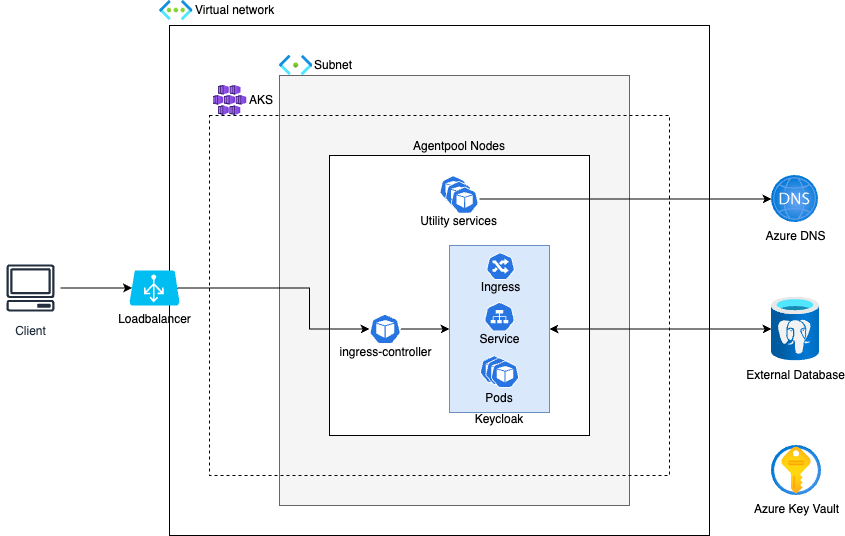
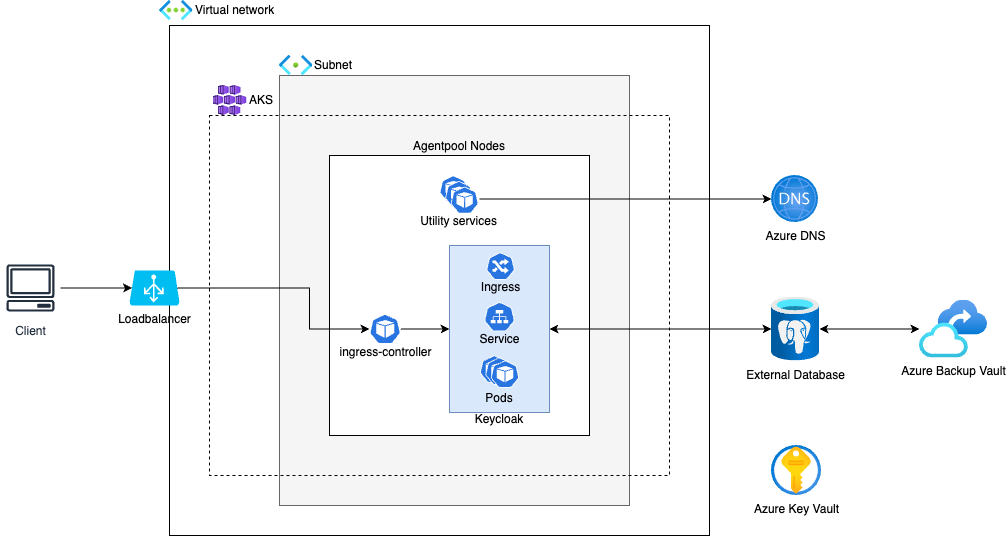
update docs

diff --git a/README.md b/README.md
@@ -6,7 +6,8 @@
 * [Deployment](#deployment)
   * [Infrastructure provisioning](#infrastructure-provisioning)
   * [Kubernetes initialization](#kubernetes-initialization)
-  * [Keycloak installation](#keycloak-installation)
+    * [Utility services](#utility-services)
+    * [Keycloak installation](#keycloak-installation)
   * [Service integration](#service-integration)
 * [Operations](#operations)
   * [Maintenance](#maintenance)
@@ -39,12 +40,12 @@ Access to Keycloak is facilitated via an nginx ingress controller (running in AK
 
 Azure Database for PostgreSQL Flexible Server is used as external database for Keycloak and access is facilitated with username/password for simplicity.
 
+Azure Backup Vault is used for periodic backups of the database.
+
 Azure DNS is used to resolve hostnames.
 
 Azure Key Vault is used to store the DB admin password.
 
-TODO: backup vault
-TODO: storace accounts
 
 ### Further architecture improvements
 
@@ -69,30 +70,58 @@ TODO: storace accounts
 
 ## Deployment
 ### Infrastructure provisioning
-The infrastructure components are provisioned via Terraform with its state saved in Azure Blob Storage. To provision the initial infrastructure needed for the terraform backend one can run `sh ./infra/script/create-tf-backend.sh` from the root of the git repository. It is required to have Azure CLI (https://learn.microsoft.com/en-us/cli/azure/install-azure-cli) installed and to be logged in (`az login`).
+The infrastructure components are provisioned via Terraform with its state saved in Azure Blob Storage. To provision the initial infrastructure needed for the terraform backend one can run `sh create-tf-backend.sh` from the root of the git repository. It is required to have Azure CLI (https://learn.microsoft.com/en-us/cli/azure/install-azure-cli) installed and to be logged in (`az login`).
 
-Create a file called postgresql_password in `/infra/files/` and add a password. This will be written to Azure Key vault and used for the database deployment.
+Create a file called `postgresql_password` in `/infra/files/` and add a password. This will be written to Azure Key vault and used for the database deployment.
 
 After that use `terraform init` to initialize your local environment. With `terraform plan` and `terraform apply` you can check which resources will be deployed and execute the deployment. After all resources are successfully deployed you can continue with [initializing Kubernetes](#kubernetes-initialization).
 
-TODO: keyvault + DB password
-
 ### Kubernetes initialization
-Install helm; run script
+After AKS is provisioned by Terraform make sure you can connect to the cluster as described in the [Operations](operations) section and and deploy utility services and Keycloak as described below.
 
-### Keycloak installation
-TODO: describe helm deployment
+>[!NOTE]
+>
+>In a more mature setup a GitOps tool would be provisioned which would then deploy and manage all required Kubernetes workloads.
 
-Access URL + PW
+#### Utility services
+To deploy run the following commands:
+1. `kubectl apply -R -f manifests/02_ingress-nginx/` (this deploys the nginx ingress controller)
+1. `kubectl apply -R -f manifests/03_cert-manager/` (this deploys cert-manager to issue certificates)
+
+#### Keycloak installation
+To install Keycloak run the following commands:
+
+1. `kubectl apply -R -f manifests/01_crds/` (this deploys required custom resource definitions for Keycloak)
+1. `kubectl apply -R -f manifests/04_keycloak/` (this deploys Keycloak)
+
+To check that the Keycloak instance has been provisioned in the cluster run:
+
+`kubectl get keycloaks/keycloak-full-coral -n keycloak-system -o go-template='{{range .status.conditions}}CONDITION: {{.type}}{{"\n"}}  STATUS: {{.status}}{{"\n"}}  MESSAGE: {{.message}}{{"\n"}}{{end}}'`
+
+The output for the successful deployment should look like this: 
+
+```sh
+CONDITION: Ready
+  STATUS: true
+  MESSAGE:
+CONDITION: HasErrors
+  STATUS: false
+  MESSAGE:
+CONDITION: RollingUpdate
+  STATUS: false
+  MESSAGE:
+```
+
+TODO: parameters.yaml
 
 ### Service integration
-TODO: describe how to enable a service to be used with keycloak
+We are using Grafana as sample application to test the Keycloak integration. The integration of Keycloak in a tool depends on the configuration parameters the tool offers. In case of Grafana it is possible to integrate Keycloak via the `GF_AUTH_GENERIC_OAUTH_*` environment variables which can be set e.g. in the [Deployment resource](./manifests/05_sample-application/05_deployment.yml).
+The values of `GF_AUTH_GENERIC_OAUTH_CLIENT_ID` and `GF_AUTH_GENERIC_OAUTH_CLIENT_SECRET` are provided via Kubernetes Secrets which are populated with values obtained from Keycloak when creating a client in a realm.
 
 ## Operations
 
 The following sections include commands to be executed in the CLI. To ensure that these commands are successful please check the prerequisites:
 * Azure CLI (https://learn.microsoft.com/en-us/cli/azure/install-azure-cli), kubectl (https://kubernetes.io/docs/tasks/tools/) and kubelogin (https://azure.github.io/kubelogin/install.html) are installed (https://learn.microsoft.com/en-us/cli/azure/install-azure-cli) on the machine that has access to the cluster. This can be a local machine if cluster has public access enabled (which is the case for the current infrastrucutre setup) or e.g. a bastion host if the cluster is private (should be private for production). To connect to the bastion host you can use the Azure portal (https://portal.azure.com/) to identify the VM and check the connection possibilities.
-
 
 ### Maintenance
 
@@ -166,15 +195,19 @@ Database settings can be adjusted via the `sku_name`, `storage_mb` and `storage_
 
 ##### Keycloak
 
-To adjust the number of Keycloak instances adjust the `replicas` factor in TODO:. The available resources (cpu/memory) can also be adjusted there. After that make sure to rollout the changes via TODO:. (Note: In a mature setup the horizontal and vertical scaling can be automated in Kubernetes. For automatic rollouts a GitOps tool would be used.)
+Scaling Keycloak is equivalent to adjusting the `spec.instances` configuration parameter in [manifests/04_keycloak/07_keycloak.yml](manifests/04_keycloak/07_keycloak.yml). To rollout configuration changes see [Change Keycloak configuration](#change-keycloak-configuration).
 
 #### Change Keycloak configuration
 
-To change configuration parameters of Keycloak adjust the corresponding values in [manifests/04_keycloak/07_keycloak.yml](manifests/04_keycloak/07_keycloak.yml) and rollout the changes via TODO:. (Note: In a mature setup the rollouts would be automated via a GitOps tool.)
+>[!NOTE]
+>
+>Configuration changes should first be tested in a development environment before being rolled out to production to avoid unwanted downtime.
 
-Helm
+To change configuration parameters of Keycloak adjust the corresponding values in [manifests/04_keycloak/07_keycloak.yml](manifests/04_keycloak/07_keycloak.yml) and rollout the changes via:
 
-To check that the Keycloak instance has been provisioned in the cluster run:
+`kubectl apply -f manifests/04_keycloak/07_keycloak.yml`
+
+As for the Keycloak installation you can check that the Keycloak instance has been provisioned in the cluster by running:
 
 `kubectl get keycloaks/keycloak-full-coral -n keycloak-system -o go-template='{{range .status.conditions}}CONDITION: {{.type}}{{"\n"}}  STATUS: {{.status}}{{"\n"}}  MESSAGE: {{.message}}{{"\n"}}{{end}}'`
 
@@ -192,18 +225,24 @@ CONDITION: RollingUpdate
   MESSAGE:
 ```
 
+If configuration changes are performed during a maintenance window Keycloak can also first be scaled down to zero (equivalent of stopping Keycloak) with: 
+
+```shell
+# Stop the Keycloak instances
+kubectl --namespace keycloak-system patch keycloak keycloak  --type=json --patch='[{"op":"replace","path":"/spec/instances","value":0}]'
+
+# Perform maintenance tasks
+```
+
+Running `kubectl apply -f manifests/04_keycloak/07_keycloak.yml` as mentioned above will scale up the instances again (equivalent of starting Keycloak again).
+
 #### Update Keycloak version
 
-Keycloak is deployed via an operator. To upgrade to a new version check the releases in GitHub (<https://github.com/keycloak/keycloak/releases>) and read the corresponding official upgrade guide (<https://www.keycloak.org/docs/latest/upgrading/index.html>) to assess if configuration changes to Keycloak are required as well. The new Keycloak version can be specified in in the Kubernetes Keycloak manifests (especially the image tag in the `Deployment` resource). Make sure to also set the correct version in all labels/annotations to keep consistency and additionally update the Custom resource Definitions if required ([manifests/01_crds/](manifests/01_crds/)).
+Keycloak is deployed via an operator. To upgrade to a new version check the releases in GitHub (<https://github.com/keycloak/keycloak/releases>) and read the corresponding official upgrade guide (<https://www.keycloak.org/docs/latest/upgrading/index.html>) to assess if configuration changes to Keycloak are required as well. The new Keycloak version can be specified in the Kubernetes Keycloak manifests in [manifests/04_keycloak](manifests/04_keycloak) (especially the image tag in the `Deployment` resource). Make sure to also set the correct version in all labels/annotations to keep consistency and additionally update the Custom resource Definitions if required ([manifests/01_crds/](manifests/01_crds/)).
 
 Version upgrades and configuration changes should be tested in a development environment before being rolled out to production. In case zero downtime deployments are not possible a maintenance window should be communicated.
 
-After setting all required values roll out the changes via TODO:
-
-#### Add/remove users/realms etc
-TODO:
-
-Not sure if we need this but either via direct UI import or via API calls (could be automated with custom script and TF). 
+After setting all required values roll out the changes as described in [Keycloak installation](#keycloak-installation).
 
 ### Troubleshooting
 >[!NOTE]
